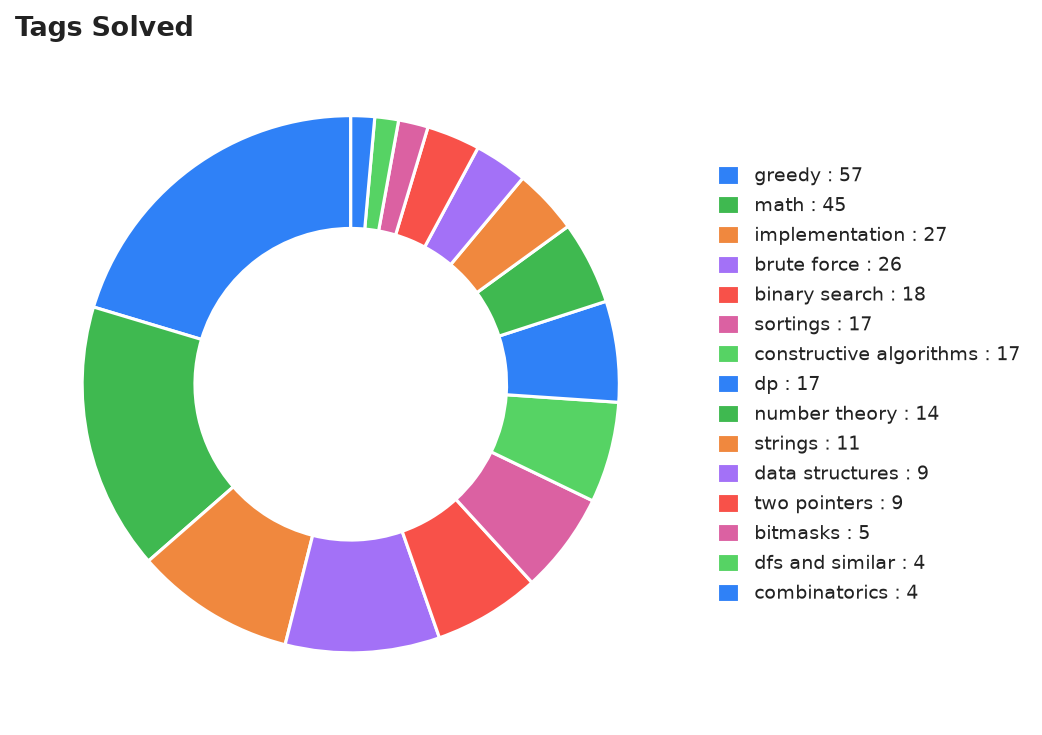
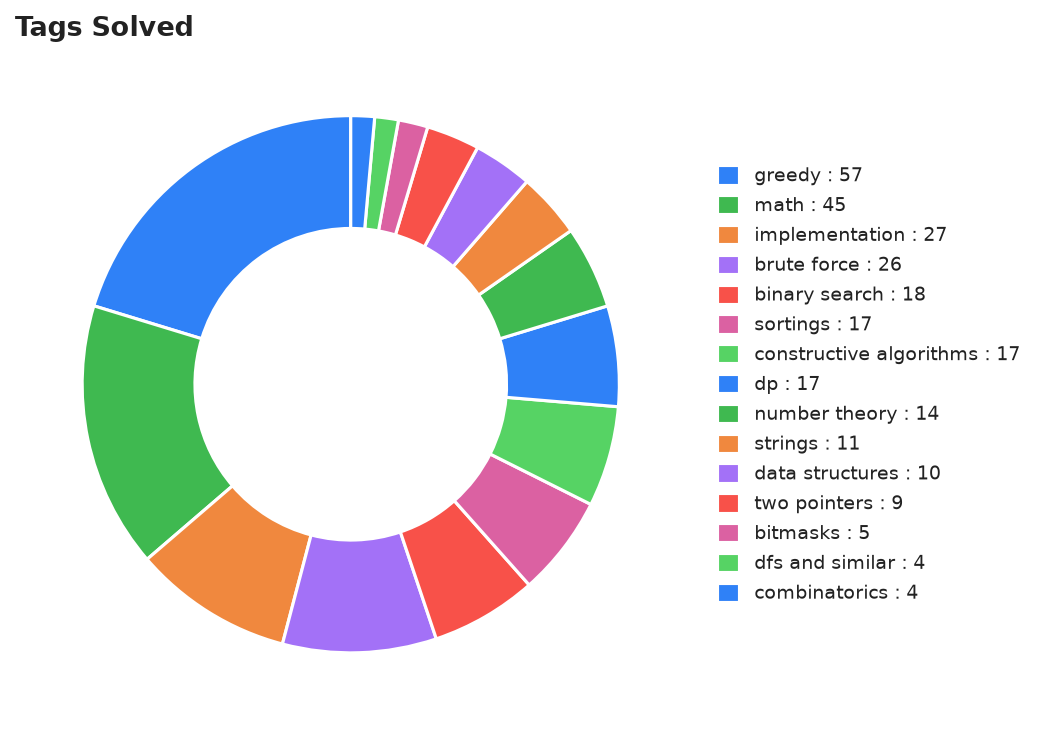
Sync: refresh analytics (rating/streak update, no new problems)

diff --git a/README.md b/README.md
@@ -64,7 +64,7 @@ Auto-generated archive of accepted Codeforces submissions for **[om_sharma_](htt
 | `dp` | 17 |
 | `number theory` | 14 |
 | `strings` | 11 |
-| `data structures` | 9 |
+| `data structures` | 10 |
 | `two pointers` | 9 |
 | `bitmasks` | 5 |
 | `dfs and similar` | 4 |
@@ -86,7 +86,7 @@ Auto-generated archive of accepted Codeforces submissions for **[om_sharma_](htt
 
 | # | Problem | Rating | Tags | Code | Link |
 |---|---|---|---|---|---|
-| 2252A | [Boss Fight](problems/greedy/Unrated_2252A-Boss-Fight) | ? | `greedy` | — | [CF](https://codeforces.com/contest/2252/problem/A) |
+| 2252A | [Boss Fight](problems/data-structures/Unrated_2252A-Boss-Fight) | ? | `data structures`, `greedy` | — | [CF](https://codeforces.com/contest/2252/problem/A) |
 | 4A | [Watermelon](problems/brute-force/0800_4A-Watermelon) | 800 | `brute force`, `math` | — | [CF](https://codeforces.com/contest/4/problem/A) |
 | 231A | [Team](problems/brute-force/0800_231A-Team) | 800 | `brute force`, `greedy` | — | [CF](https://codeforces.com/contest/231/problem/A) |
 | 263A | [Beautiful Matrix](problems/implementation/0800_263A-Beautiful-Matrix) | 800 | `implementation` | — | [CF](https://codeforces.com/contest/263/problem/A) |
